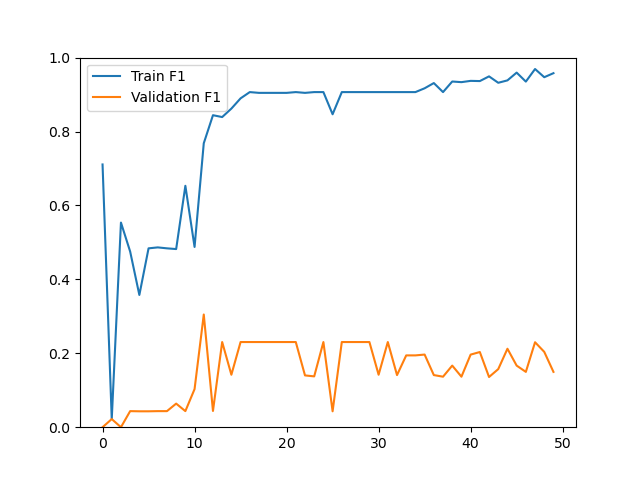
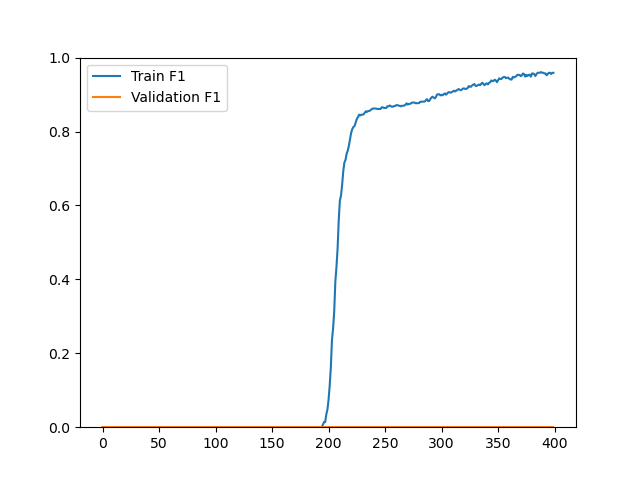
overfitting so badly lstm(64,2) dropout .3 in lstm layer dropout .3 out of lstm layer .00001 lr

diff --git a/LSTM.py b/LSTM.py
@@ -71,17 +71,19 @@ class LSTM(nn.Module):
     def __init__(self, hide_dim, n_layers):
         self.hide_dim = hide_dim
         super(LSTM, self).__init__()
-        self.lstm = nn.LSTM(input_size=1024, hidden_size=hide_dim, num_layers=n_layers, batch_first=True)
+        self.lstm = nn.LSTM(input_size=1024, hidden_size=hide_dim, num_layers=n_layers, dropout=.3, batch_first=True)
         self.embedding = nn.Embedding(LEN_VOCAB, 300)
         self.linear = nn.Linear(hide_dim, 1)
         self.sigmoid = nn.Sigmoid()
-        self.dropout = nn.Dropout(0.3)
+        self.dropout = nn.Dropout(0.1)
+        self.dropout2 = nn.Dropout(0.3)
 
     def forward(self, x):
         x, _ = self.lstm(x)
+        #x = self.dropout(x)
         #linear is the dense layer here
         x = self.linear(x)
-        x = self.dropout(x)
+        x = self.dropout2(x)
         return torch.sigmoid(x)
 
 """def accuracy(predicted, actual):
@@ -140,7 +142,7 @@ def trainLoop(model, epochs, training_data, testing_data, optimizer, criterion, 
             model.train()
             optimizer.zero_grad()
 
-            inputs = normalize(inputs, p=2.0, dim=0)
+            #inputs = normalize(inputs, p=2.0, dim=0)
             outputs = model(inputs)
             outputs = outputs.to(torch.float32)
             labels = labels.to(torch.float32)
@@ -198,7 +200,7 @@ def trainLoop(model, epochs, training_data, testing_data, optimizer, criterion, 
         with torch.no_grad():
             for inputs, labels in testing_data:
                 total_validation_records += labels.size(0)
-                inputs = normalize(inputs, p=2.0, dim=0)
+                #inputs = normalize(inputs, p=2.0, dim=0)
                 outputs = model(inputs)
                 outputs = outputs.to(torch.float32)
                 labels = labels.to(torch.float32)
@@ -222,8 +224,12 @@ def trainLoop(model, epochs, training_data, testing_data, optimizer, criterion, 
         # Calculate precision, recall, and F1 score
         precision, recall, f1, _ = precision_recall_fscore_support(all_labels, all_predictions, average='binary')
         precisionV, recallV, f1V, _ = precision_recall_fscore_support(valLabels, valPredictions, average='binary')
-        print(f'  Epoch {e} Training - Loss: {epoch_loss:.4f}, Accuracy: {epoch_acc:.4f}, Precision: {precision:.4f}, Recall: {recall:.4f}, F1 Score: {f1:.4f} Records: {epoch_records}')
-        print(f'  Epoch {e} Validation - Loss: {test_loss:.4f}, Accuracy: {accuracy:.4f}, Precision: {precisionV:.4f}, Recall: {recallV:.4f}, F1 Score: {f1V:.4f}')
+        #bc i'm getting nauesous
+        if (e%10==0):
+            print(
+                f'  Epoch {e} Training - Loss: {aveLossForEpoch:.4f}, Accuracy: {epoch_acc:.4f}, Precision: {precision:.4f}, Recall: {recall:.4f}, F1 Score: {f1:.4f} Records: {epoch_records}')
+            print(
+                f'             Epoch {e} Validation - Loss: {test_loss:.4f}, Accuracy: {accuracy:.4f}, Precision: {precisionV:.4f}, Recall: {recallV:.4f}, F1 Score: {f1V:.4f}')
 
         e_precisionListTrain.append(precision)
         e_precisionListVal.append(precisionV)
@@ -283,6 +289,8 @@ def trainLoop(model, epochs, training_data, testing_data, optimizer, criterion, 
     plt.savefig(graphName)
     plt.clf()
 
+    return test_loss, (correct/len(testing_data.dataset))
+
 def formatAndFold():
     device = torch.device("cuda" if torch.cuda.is_available() else "cpu")
     smiles_split = [split(sm) for sm in dataset['processed_smiles'].values]
@@ -291,19 +299,24 @@ def formatAndFold():
     labels_train = dataset['Class'].values
 
     # critical hyperparameters
-    epoch = 50
-    ksplits = 4
-    learning_rate = 0.0045
+    epoch = 400
+    ksplits = 5
+    learning_rate = 0.00001
+    #learning_rate = 0.0001
+    allAveLoss = []
+    allAveAcc = []
 
     # Initialize the model and optimizer
-    model = LSTM(1024, 2)
-    optimizer = optim.Adam(model.parameters(), lr=learning_rate)
-    scheduler = lr_scheduler.LinearLR(optimizer, start_factor=1.0, end_factor=0.3, total_iters=10)
-    loss_fn = torch.nn.BCELoss()
 
     fold = 0
-    kfold = StratifiedKFold(n_splits=ksplits, shuffle=True)
+    #shuffle is currently false, was previously true
+    kfold = StratifiedKFold(n_splits=ksplits, shuffle=False)
     for train_index, test_index in kfold.split(smiles_train, labels_train):
+        model = LSTM(64, 2)
+        optimizer = optim.Adam(model.parameters(), lr=learning_rate)
+        scheduler = lr_scheduler.LinearLR(optimizer, start_factor=1.0, end_factor=0.6, total_iters=75)
+        loss_fn = torch.nn.BCELoss()
+
         fold = fold + 1
         training_data = biodegradeDataset(smiles_train[train_index], labels_train[train_index])
         testing_data = biodegradeDataset(smiles_train[test_index], labels_train[test_index])
@@ -319,6 +332,15 @@ def formatAndFold():
         )
 
         # change the number of epoch back to 20
-        trainLoop(model, epoch, train_loader, test_loader, optimizer, loss_fn, fold, scheduler)
+        loopLoss, loopAcc = trainLoop(model, epoch, train_loader, test_loader, optimizer, loss_fn, fold, scheduler)
+        allAveLoss.append(loopLoss)
+        allAveAcc.append(loopAcc)
 
+    meanLoss = np.mean(allAveLoss)
+    meanAcc = np.mean(allAveAcc)
+    SDLoss = np.std(allAveLoss)
+    SDAcc = np.std(allAveAcc)
+
+    print(" ")
+    print(f'MEAN LOSS FOR ALL FOLDS IS {meanLoss}, SD {SDLoss}. MEAN ACCURACY IS {meanAcc}, SD {SDAcc}.')
 formatAndFold()
